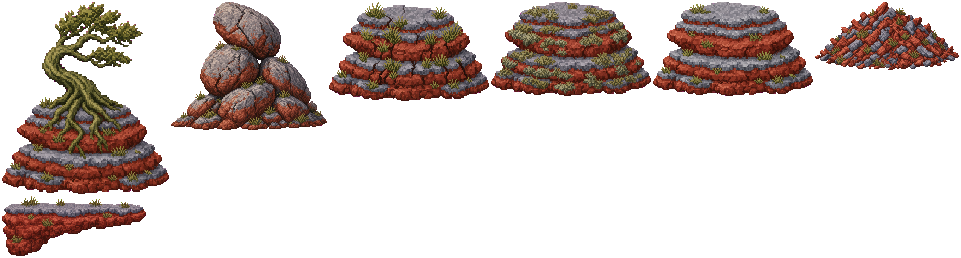
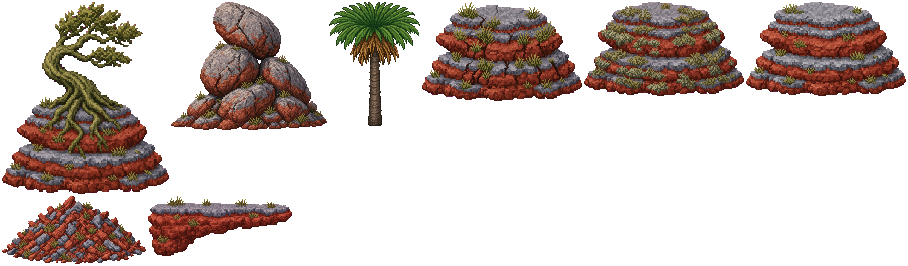
feat: el pindó de l6 es el karanda'y, con la barra que cruza la copa
Claude-Session: https://claude.ai/code/session_01Tj7tjipxHL5sxS627Dmiwk

diff --git a/src/assets/pindoArt.ts b/src/assets/pindoArt.ts
@@ -1,0 +1,69 @@
+import type Phaser from 'phaser';
+import { GAMEPLAY } from '../config/gameplay';
+import { propAtlasKey } from './manifest';
+import { parsePropId } from './propLayout';
+
+/**
+ * El pindó de l6 (S78): el karanda'y del atlas `l6_roca` y una barra que cruza la copa y tapa la plataforma `=`.
+ * Solo dibujo: la plataforma (posición y tamaño) es la del mapa. Si falta el atlas, devuelve false y la escena
+ * dibuja el pindó por código (el de S31).
+ */
+export function addPindoArt(
+  scene: Phaser.Scene,
+  zone: { centerX: number; top: number; bottom: number; width: number },
+): boolean {
+  const cfg = GAMEPLAY.pindo.art;
+  const parsed = parsePropId(cfg.prop);
+  const key = parsed ? propAtlasKey(parsed.folder) : '';
+  if (!parsed || !scene.textures.exists(key) || !scene.textures.get(key).has(parsed.name)) {
+    console.warn(`[ASSET FALTANTE] prop ${cfg.prop}`);
+    return false;
+  }
+  const detail = (scene.textures.get(key).customData as { meta?: { detail?: number } } | undefined)?.meta?.detail ?? 1;
+  const frameHeight = scene.textures.getFrame(key, parsed.name).height / detail;
+  // La barra (centro) queda en la franja más ancha de la copa; el pie del tronco, hundido en el piso.
+  const barTop = zone.top - cfg.barRaise;
+  const barCenter = barTop + cfg.barThickness / 2;
+  const foot = zone.bottom + cfg.sink;
+  const scale = (foot - barCenter) / ((1 - cfg.crownY) * frameHeight);
+  scene.add
+    .image(zone.centerX, foot, key, parsed.name)
+    .setOrigin(0.5, 1)
+    .setScale(scale / detail)
+    .setDepth(GAMEPLAY.props.sunkDepth);
+  const bar = ensurePindoBar(scene, zone.width + cfg.barOverhang * 2);
+  // Delante de la capa Platforms (creada antes) y, a la misma profundidad que Kerana, debajo de ella (Kerana se
+  // crea después de los objetos del mapa).
+  scene.add.image(zone.centerX, barTop, bar).setOrigin(0.5, 0).setScale(1 / cfg.barDetail).setDepth(GAMEPLAY.props.depth);
+  return true;
+}
+
+/**
+ * Barra de la copa: hojas secas atadas (los colores del faldón marrón del dibujo), con borde oscuro, luz arriba,
+ * sombra abajo y vetas a lo largo; puntas redondeadas. Una textura por ancho.
+ */
+function ensurePindoBar(scene: Phaser.Scene, width: number): string {
+  const cfg = GAMEPLAY.pindo.art;
+  const key = `pindo_bar_${width}`;
+  if (scene.textures.exists(key)) return key;
+  const k = cfg.barDetail;
+  const w = width;
+  const h = cfg.barThickness;
+  const r = h / 2;
+  const c = cfg.barColors;
+  const g = scene.make.graphics({ x: 0, y: 0 }, false);
+  g.fillStyle(c.outline).fillRoundedRect(0, 0, w * k, h * k, r * k);
+  g.fillStyle(c.base).fillRoundedRect(1 * k, 1 * k, (w - 2) * k, (h - 2) * k, (r - 1) * k);
+  g.fillStyle(c.light).fillRect(r * k, 1 * k, (w - 2 * r) * k, 1.5 * k);
+  g.fillStyle(c.highlight).fillRect((r + 2) * k, 1 * k, (w - 2 * r - 4) * k, 0.5 * k);
+  g.fillStyle(c.dark).fillRect(r * k, (h - 2.5) * k, (w - 2 * r) * k, 1.5 * k);
+  // Vetas: rayitas oscuras y claras a lo largo, en un orden fijo (sin azar: igual en cada partida).
+  for (let j = 0; j < cfg.barGrain; j++) {
+    const x = 3 + ((j * 37) % 100) / 100 * (w - 10);
+    const y = 2.5 + ((j * 53) % 100) / 100 * (h - 5);
+    g.fillStyle(j % 2 === 0 ? c.dark : c.light).fillRect(x * k, y * k, (3 + (j % 3) * 2) * k, 0.5 * k);
+  }
+  g.generateTexture(key, Math.ceil(w * k), Math.ceil(h * k));
+  g.destroy();
+  return key;
+}

diff --git a/src/scenes/LevelScene.ts b/src/scenes/LevelScene.ts
@@ -2,6 +2,7 @@ import Phaser from 'phaser';
 import { artOrPlaceholder, hasArt } from '../assets/art';
 import { addProp, propLook, propNames } from '../assets/propArt';
 import { layoutShowcase } from '../assets/propLayout';
+import { addPindoArt } from '../assets/pindoArt';
 import { ART_DETAIL, PROP_ATLASES, tilesetKey } from '../assets/manifest';
 import { DEBUG } from '../config/debug';
 import { FONT_FAMILY } from '../config/fonts';
@@ -967,9 +968,13 @@ export class LevelScene extends Phaser.Scene {
 
   // ── Pindó, vacas y onda de luz ────────────────────────────────────────────
 
-  /** Pindó (GDD §6.6): tronco y hojas por código; la copa (plataforma `=` del mapa) es refugio. */
+  /**
+   * Pindó (GDD §6.6): la copa (plataforma `=` del mapa) es refugio. S78: el karanda'y del atlas con una barra que
+   * cruza la copa; sin el atlas, tronco y hojas por código (S31).
+   */
   private addPindo(zone: Phaser.Geom.Rectangle): void {
     this.refuges.push({ left: zone.left, right: zone.right, top: zone.top });
+    if (addPindoArt(this, zone)) return;
     const trunk = GAMEPLAY.pindo.trunkWidth;
     this.add.rectangle(zone.centerX - trunk / 2, zone.top, trunk, zone.height, PINDO_TRUNK_COLOR).setOrigin(0, 0).setDepth(1);
     for (const dx of [-1, 1]) {

diff --git a/src/config/gameplay.ts b/src/config/gameplay.ts
@@ -753,7 +753,26 @@ export const GAMEPLAY = {
   pindo: {
     /** Tolerancia vertical entre los pies y la copa (px). */
     feetTolerancePx: 3,
+    /** Tronco del pindó por código (S31), solo si falta el atlas `l6_roca`. */
     trunkWidth: 5,
+    /**
+     * S78: el karanda'y (`l6_roca/karanday_palm`). La escala sale del alto del pindó: el pie del tronco, `sink` bajo el
+     * piso, y la franja más ancha de la copa (`crownY`, fracción del alto del dibujo desde arriba) en el centro de la
+     * barra. La barra tapa la plataforma `=`: `barRaise` sobre su borde de arriba, `barOverhang` de más a cada lado.
+     */
+    art: {
+      prop: 'l6_roca/karanday_palm',
+      crownY: 0.24,
+      sink: 1,
+      barRaise: 1,
+      barThickness: 7,
+      barOverhang: 2,
+      /** Píxeles de la textura de la barra por unidad (como el arte de los jefes). */
+      barDetail: 2,
+      barGrain: 18,
+      /** Colores del faldón de hojas secas del dibujo. */
+      barColors: { outline: 0x2a1a0c, dark: 0x5a3c18, base: 0x8a6230, light: 0xa87a3c, highlight: 0xc4964e },
+    },
   },
 
   /**
